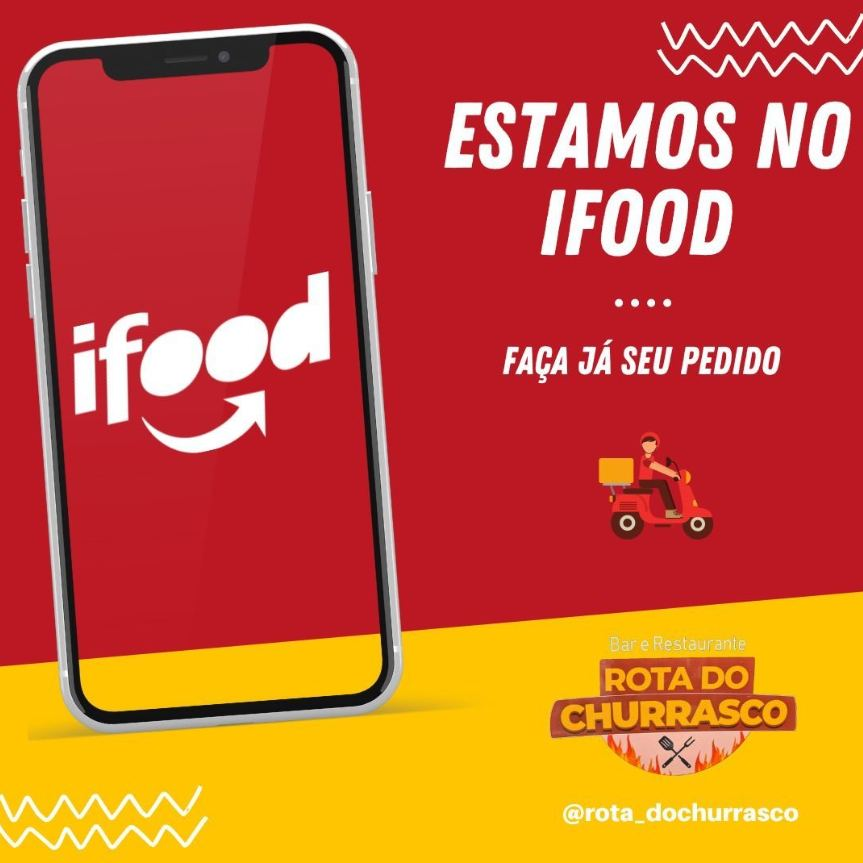
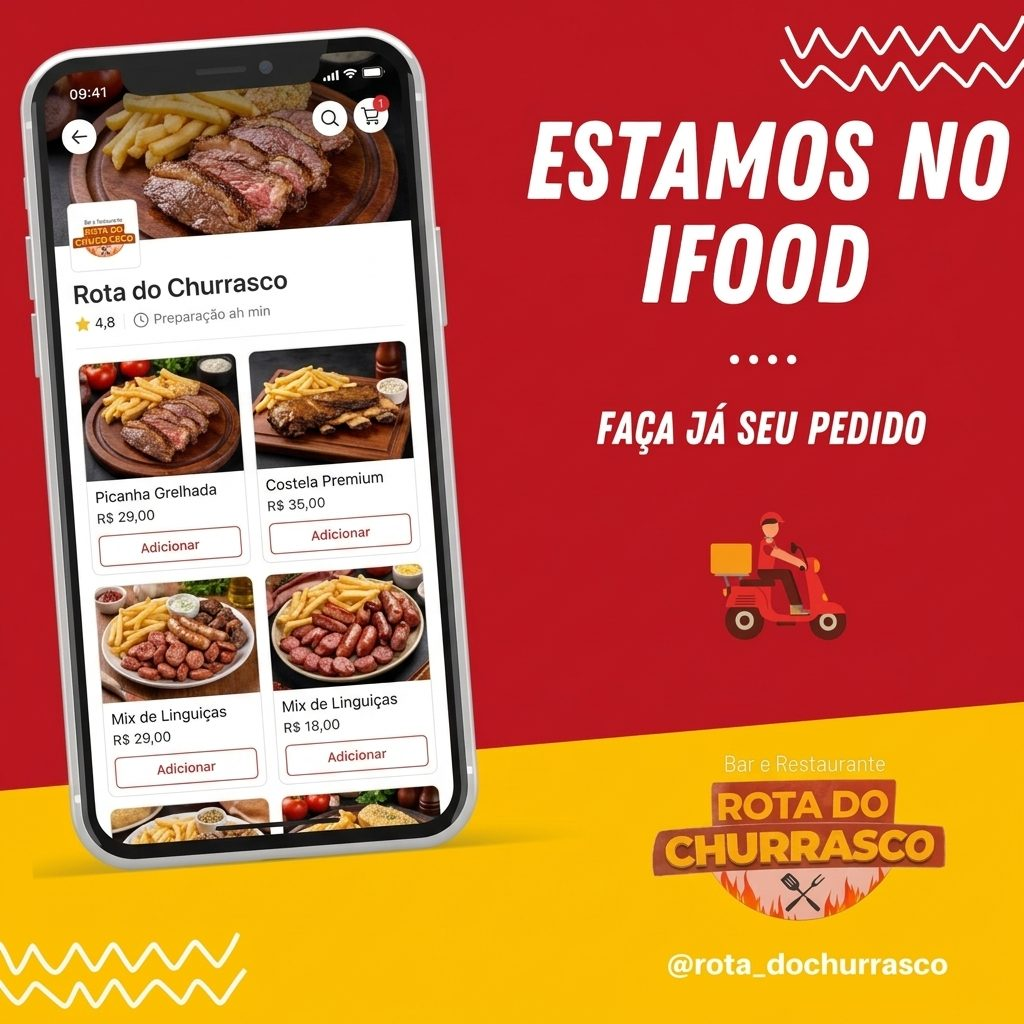
mudei admin

diff --git a/index.html b/index.html
@@ -206,6 +206,18 @@
   }
   .gallery{scroll-snap-type:x mandatory;}
 
+  /* ---------- BANNER IFOOD ---------- */
+  .ifood-banner{
+    display:block;border-radius:6px;overflow:hidden;
+    border:1px solid var(--line);
+    transition:transform .25s ease, box-shadow .25s ease;
+  }
+  .ifood-banner:hover{
+    transform:translateY(-3px);
+    box-shadow:0 12px 28px rgba(0,0,0,0.35);
+  }
+  .ifood-banner img{width:100%;height:auto;}
+
   /* ---------- FOOTER ---------- */
   footer{
     background:var(--panel);border-top:1px solid var(--line);padding:48px 0 32px;
@@ -280,6 +292,14 @@
   </div>
 </section>
 
+<section class="section" id="ifood">
+  <div class="wrap">
+    <a class="ifood-banner" href="https://www.ifood.com.br/delivery/brasilia-df/rota-do-churrasco---carnes-e-executivos-guara-i/330e3a2c-c383-4f7f-a280-fbc1182a8848" target="_blank" rel="noopener">
+      <img src="img/ifood-banner.jpg" alt="Peça o Rota do Churrasco pelo iFood">
+    </a>
+  </div>
+</section>
+
 <section class="section" id="ambiente">
   <div class="wrap">
     <div class="section-head"><h2>Ambiente</h2><div class="flame-rule"></div></div>
@@ -313,7 +333,7 @@
       </div>
       <div class="foot-col">
         <div class="foot-label">Peça também</div>
-        <a href="#">iFood</a>
+        <a href="https://www.ifood.com.br/delivery/brasilia-df/rota-do-churrasco---carnes-e-executivos-guara-i/330e3a2c-c383-4f7f-a280-fbc1182a8848" target="_blank" rel="noopener">iFood</a>
       </div>
     </div>
     <div class="foot-bottom">
